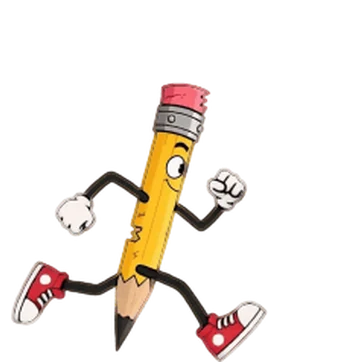
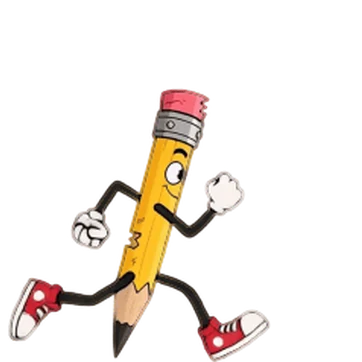
Pencil test: longer, bounding run stride that hangs on the widest poses

Changed region(s): [[0.0, 0.2127, 0.7597, 1.0]]

diff --git a/src/client/game/entities/Player.ts b/src/client/game/entities/Player.ts
@@ -33,7 +33,7 @@ import {
 // — easier to tell which pose is which at a glance, and to swap one out
 // without recomputing a grid offset. See player/*.webp in public/assets.
 //
-// player-run-1..8 is one pencil stride (contact → passing → contact),
+// player-run-1..9 is one pencil stride (contact → passing → contact),
 // picked evenly from the 25-frame autosprite run sheet after sorting its
 // cells by pose — the sheet's grid order isn't playback order.
 export const PLAYER_TEXTURE_KEYS = [
@@ -46,6 +46,7 @@ export const PLAYER_TEXTURE_KEYS = [
   'player-run-6',
   'player-run-7',
   'player-run-8',
+  'player-run-9',
   'player-jump-rise',
   'player-jump-tuck',
   'player-jump-fall',
@@ -74,6 +75,7 @@ const RUN_KEYS = [
   'player-run-6',
   'player-run-7',
   'player-run-8',
+  'player-run-9',
 ];
 const RISE_KEY = 'player-jump-rise';
 const TUCK_KEY = 'player-jump-tuck';
@@ -184,19 +186,22 @@ function opaqueFrameBounds(frame: Phaser.Textures.Frame): OpaqueBounds {
   opaqueBoundsCache.set(cacheKey, bounds);
   return bounds;
 }
-// Per-frame hold times (ms) for the run cycle. The eight poses are one step,
-// so the loop is ~160ms — about how long a step of this leg span takes at
-// RUN_SPEED, keeping the feet from skating.
-const RUN_FRAME_DURATIONS_MS: readonly number[] = [20, 20, 20, 20, 20, 20, 20, 20];
-// Squash on contact (run-1, legs fully extended), stretch through the
-// passing pose (run-5) — synced to the same eight frames via
-// ANIMATION_UPDATE (see onAnimFrameUpdate). Multiplied against the base
-// PLAYER_SIZE scale, not set absolutely.
+// Per-frame hold times (ms) for the run cycle. The nine poses are one
+// step; it hangs on the full-extension poses (run-8, run-9, run-1 — the
+// widest in the sheet) and snaps through the passing pose, so each step
+// reads as a long bound rather than a quick shuffle.
+const RUN_FRAME_DURATIONS_MS: readonly number[] = [
+  45, 26, 20, 20, 20, 22, 28, 40, 50,
+];
+// Squash on the full-extension poses, stretch through the passing pose
+// (run-5) — synced to the same nine frames via ANIMATION_UPDATE (see
+// onAnimFrameUpdate). Multiplied against the base PLAYER_SIZE scale, not
+// set absolutely.
 const RUN_SCALE_X_FACTORS: readonly number[] = [
-  1.05, 1.03, 0.99, 0.97, 0.96, 0.97, 0.99, 1.03,
+  1.05, 1.03, 0.99, 0.97, 0.96, 0.97, 0.99, 1.03, 1.05,
 ];
 const RUN_SCALE_Y_FACTORS: readonly number[] = [
-  0.94, 0.97, 1.02, 1.05, 1.06, 1.05, 1.02, 0.97,
+  0.94, 0.97, 1.02, 1.05, 1.06, 1.05, 1.02, 0.97, 0.94,
 ];
 // Same trick as the run cycle's squash/stretch above, applied to the dance
 // loop — without it the dance is just a slideshow of static poses cut on
